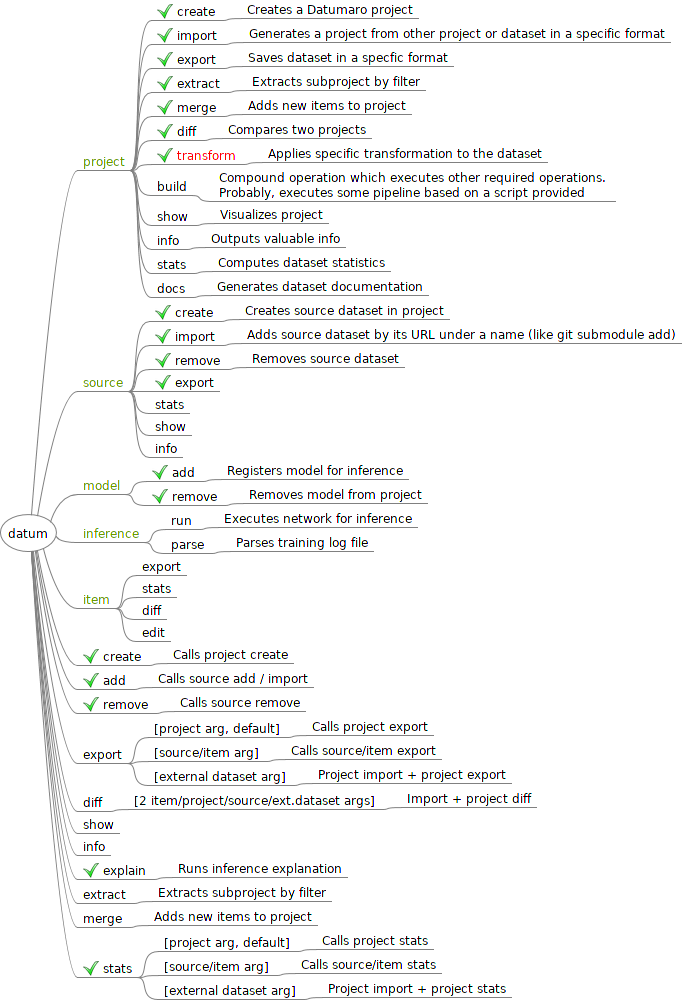
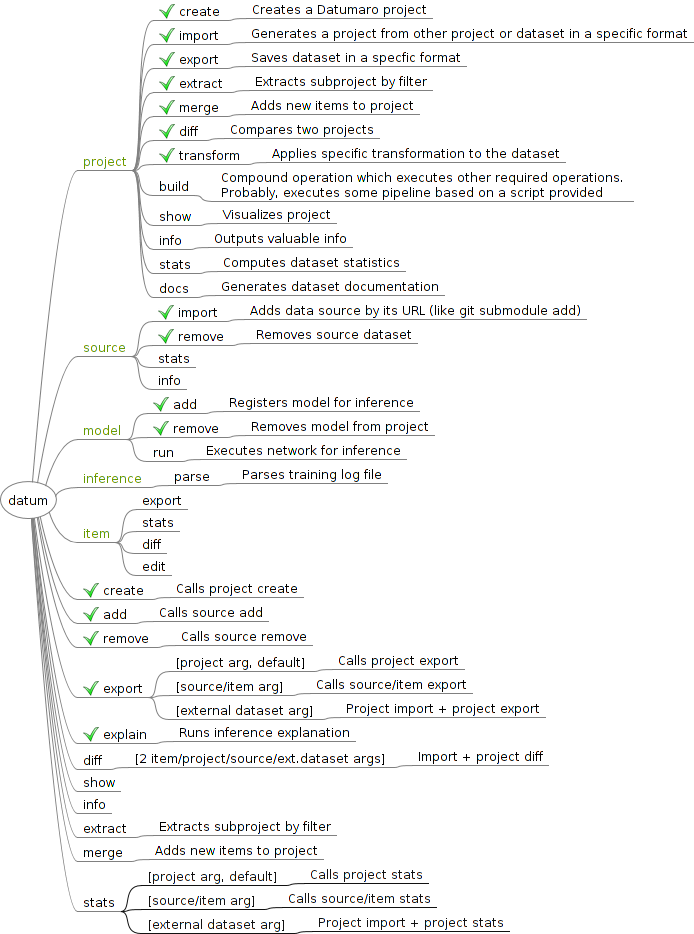
Update cli diagram

Changed region(s): [[0.0, 0.0, 1.0, 1.0]]

diff --git a/datumaro/docs/cli_design.mm b/datumaro/docs/cli_design.mm
@@ -26,7 +26,7 @@
 <icon BUILTIN="button_ok"/>
 <node CREATED="1562594886583" ID="ID_1671375265" MODIFIED="1569928079633" TEXT="Compares two projects"/>
 </node>
-<node COLOR="#ff0000" CREATED="1563435039037" ID="ID_97578583" MODIFIED="1567594117984" TEXT="transform">
+<node CREATED="1563435039037" ID="ID_97578583" MODIFIED="1579701657752" TEXT="transform">
 <icon BUILTIN="button_ok"/>
 <node CREATED="1563435074116" ID="ID_695576446" MODIFIED="1574330414686" TEXT="Applies specific transformation to the dataset"/>
 </node>
@@ -47,23 +47,15 @@
 </node>
 </node>
 <node COLOR="#669900" CREATED="1562592073422" ID="ID_1793909666" MODIFIED="1569928300945" POSITION="right" STYLE="fork" TEXT="source">
-<node CREATED="1568023057930" ID="ID_633965389" MODIFIED="1568023077570" TEXT="create">
-<icon BUILTIN="button_ok"/>
-<node CREATED="1569928185077" ID="ID_1231594305" MODIFIED="1574330396647" TEXT="Creates source dataset in project"/>
-</node>
 <node CREATED="1562592085302" ID="ID_199597063" MODIFIED="1568023069817" TEXT="import">
 <icon BUILTIN="button_ok"/>
-<node CREATED="1562592138228" ID="ID_1202153971" MODIFIED="1574330391766" TEXT="Adds source dataset by its URL under a name (like git submodule add)"/>
+<node CREATED="1562592138228" ID="ID_1202153971" MODIFIED="1579701704014" TEXT="Adds data source by its URL (like git submodule add)"/>
 </node>
 <node CREATED="1562592088238" ID="ID_744367784" MODIFIED="1567594264178" TEXT="remove">
 <icon BUILTIN="button_ok"/>
 <node CREATED="1562592316435" ID="ID_810859340" MODIFIED="1574330377694" TEXT="Removes source dataset"/>
 </node>
-<node CREATED="1562592469569" ID="ID_329615614" MODIFIED="1569927769905" TEXT="export">
-<icon BUILTIN="button_ok"/>
-</node>
 <node CREATED="1562593134746" ID="ID_195077187" MODIFIED="1562594652955" TEXT="stats"/>
-<node CREATED="1569928327997" ID="ID_389265529" MODIFIED="1569928330154" TEXT="show"/>
 <node CREATED="1569928398580" ID="ID_348421413" MODIFIED="1569928400642" TEXT="info"/>
 </node>
 <node COLOR="#669900" CREATED="1563434979149" ID="ID_782927311" MODIFIED="1563435233504" POSITION="right" TEXT="model">
@@ -75,11 +67,11 @@
 <icon BUILTIN="button_ok"/>
 <node CREATED="1569928809165" ID="ID_1093915022" MODIFIED="1574330359950" TEXT="Removes model from project"/>
 </node>
-</node>
-<node COLOR="#669900" CREATED="1562593748114" ID="ID_970814064" MODIFIED="1562594652591" POSITION="right" STYLE="fork" TEXT="inference">
 <node CREATED="1562593758235" ID="ID_1984980861" MODIFIED="1563443545700" STYLE="fork" TEXT="run">
 <node CREATED="1562593765978" ID="ID_918840812" MODIFIED="1574330356630" TEXT="Executes network for inference"/>
 </node>
+</node>
+<node COLOR="#669900" CREATED="1562593748114" ID="ID_970814064" MODIFIED="1562594652591" POSITION="right" STYLE="fork" TEXT="inference">
 <node CREATED="1564500277834" ID="ID_1264946351" MODIFIED="1564500279953" TEXT="parse">
 <node CREATED="1569927270764" ID="ID_1995847022" MODIFIED="1569927285793" TEXT="Parses training log file"/>
 </node>
@@ -97,13 +89,14 @@
 </node>
 <node CREATED="1562594254667" ID="ID_190882752" MODIFIED="1567594344740" POSITION="right" STYLE="fork" TEXT="add">
 <icon BUILTIN="button_ok"/>
-<node CREATED="1562594262484" ID="ID_949937557" MODIFIED="1569929674939" TEXT="Calls source add / import"/>
+<node CREATED="1562594262484" ID="ID_949937557" MODIFIED="1579701784334" TEXT="Calls source add"/>
 </node>
 <node CREATED="1562594276540" ID="ID_1430572506" MODIFIED="1567594350421" POSITION="right" STYLE="fork" TEXT="remove">
 <icon BUILTIN="button_ok"/>
 <node CREATED="1562594281180" ID="ID_124160415" MODIFIED="1562594591248" TEXT="Calls source remove"/>
 </node>
-<node CREATED="1562594289395" ID="ID_1608995178" MODIFIED="1574330539766" POSITION="right" STYLE="fork" TEXT="export">
+<node CREATED="1562594289395" ID="ID_1608995178" MODIFIED="1579701880629" POSITION="right" STYLE="fork" TEXT="export">
+<icon BUILTIN="button_ok"/>
 <node CREATED="1562594293699" ID="ID_199067242" MODIFIED="1569930927620" TEXT="[project arg, default]">
 <node CREATED="1562594313250" ID="ID_1243481155" MODIFIED="1569927804137" TEXT="Calls project export"/>
 </node>
@@ -114,6 +107,10 @@
 <node CREATED="1562594370348" ID="ID_778378456" MODIFIED="1569927504041" TEXT="Project import + project export"/>
 </node>
 </node>
+<node CREATED="1567594310257" ID="ID_995434490" MODIFIED="1579701872466" POSITION="right" TEXT="explain">
+<icon BUILTIN="button_ok"/>
+<node CREATED="1567594365942" ID="ID_1529218756" MODIFIED="1567594404172" TEXT="Runs inference explanation"/>
+</node>
 <node CREATED="1562594703543" ID="ID_210248464" MODIFIED="1562594705685" POSITION="right" TEXT="diff">
 <node CREATED="1569927601316" ID="ID_920307385" MODIFIED="1569927934921" TEXT="[2 item/project/source/ext.dataset args]">
 <node CREATED="1569927624724" ID="ID_1503422177" MODIFIED="1569927985130" TEXT="Import + project diff"/>
@@ -121,26 +118,30 @@
 </node>
 <node CREATED="1569929167198" ID="ID_1583130184" MODIFIED="1569929169274" POSITION="right" TEXT="show"/>
 <node CREATED="1569929169942" ID="ID_912693725" MODIFIED="1569929174043" POSITION="right" TEXT="info"/>
-<node CREATED="1567594310257" ID="ID_995434490" MODIFIED="1567594363999" POSITION="right" TEXT="explain">
-<icon BUILTIN="button_ok"/>
-<node CREATED="1567594365942" ID="ID_1529218756" MODIFIED="1567594404172" TEXT="Runs inference explanation"/>
-</node>
 <node CREATED="1562593914751" ID="ID_925304191" MODIFIED="1569927316928" POSITION="right" TEXT="extract">
 <node CREATED="1562593918968" ID="ID_1746788348" MODIFIED="1569929409897" TEXT="Extracts subproject by filter"/>
 </node>
 <node CREATED="1569928239212" ID="ID_874360504" MODIFIED="1569928241378" POSITION="right" TEXT="merge">
 <node CREATED="1569928465766" ID="ID_332142804" MODIFIED="1569928867634" TEXT="Adds new items to project"/>
 </node>
-<node CREATED="1562593031995" ID="ID_1818638085" MODIFIED="1569930889221" POSITION="right" STYLE="fork" TEXT="stats">
-<icon BUILTIN="button_ok"/>
-<node CREATED="1562593043258" ID="ID_280465436" MODIFIED="1562594682163" STYLE="fork" TEXT="[project arg, default]">
-<node CREATED="1562593064794" ID="ID_1859975421" MODIFIED="1562594682163" STYLE="fork" TEXT="Calls project stats"/>
+<node CREATED="1562593031995" ID="ID_1818638085" MODIFIED="1579701824396" POSITION="right" TEXT="stats">
+<node COLOR="#111111" CREATED="1562593043258" ID="ID_280465436" MODIFIED="1579701820333" TEXT="[project arg, default]">
+<edge COLOR="#111111" WIDTH="thin"/>
+<node COLOR="#111111" CREATED="1562593064794" ID="ID_1859975421" MODIFIED="1579701820336" TEXT="Calls project stats">
+<edge COLOR="#111111" WIDTH="thin"/>
 </node>
-<node CREATED="1562593187881" ID="ID_815427730" MODIFIED="1569930976940" STYLE="fork" TEXT="[source/item arg]">
-<node CREATED="1562593203687" ID="ID_1958444123" MODIFIED="1569930985172" STYLE="fork" TEXT="Calls source/item stats"/>
 </node>
-<node CREATED="1562593537868" ID="ID_1000873843" MODIFIED="1562594682163" STYLE="fork" TEXT="[external dataset arg]">
-<node CREATED="1562593695074" ID="ID_1931687508" MODIFIED="1569930999660" STYLE="fork" TEXT="Project import + project stats"/>
+<node COLOR="#111111" CREATED="1562593187881" ID="ID_815427730" MODIFIED="1579701820338" TEXT="[source/item arg]">
+<edge COLOR="#111111" WIDTH="thin"/>
+<node COLOR="#111111" CREATED="1562593203687" ID="ID_1958444123" MODIFIED="1579701820339" TEXT="Calls source/item stats">
+<edge COLOR="#111111" WIDTH="thin"/>
+</node>
+</node>
+<node COLOR="#111111" CREATED="1562593537868" ID="ID_1000873843" MODIFIED="1579701820340" TEXT="[external dataset arg]">
+<edge COLOR="#111111" WIDTH="thin"/>
+<node COLOR="#111111" CREATED="1562593695074" ID="ID_1931687508" MODIFIED="1579701820341" TEXT="Project import + project stats">
+<edge COLOR="#111111" WIDTH="thin"/>
+</node>
 </node>
 </node>
 </node>
